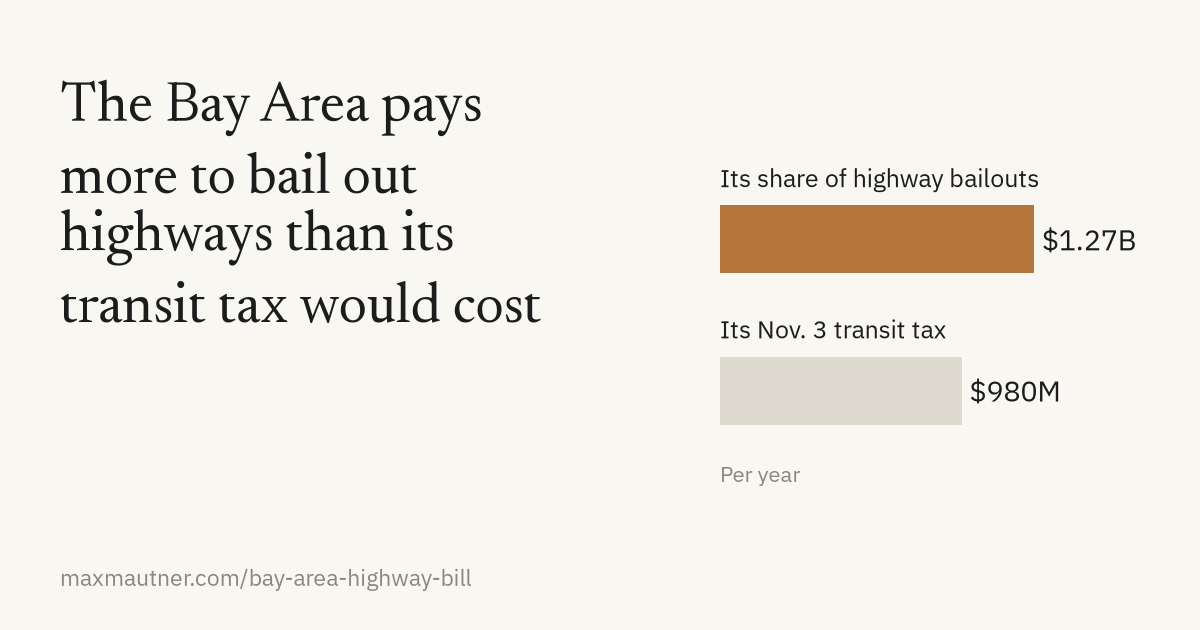
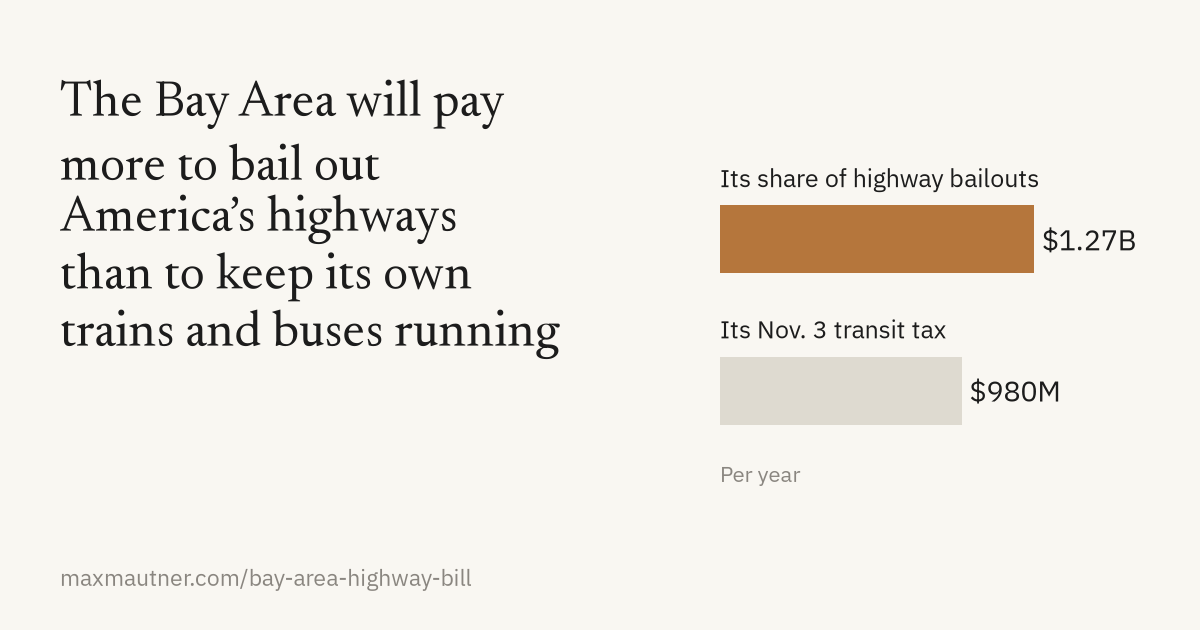
bay-area-highway-bill: og-image headline matches post

Changed region(s): [[0.0308, 0.1206, 0.4625, 0.573]]

diff --git a/2026-10-24-bay-area-highway-bill/charts/charts.py b/2026-10-24-bay-area-highway-bill/charts/charts.py
@@ -111,8 +111,8 @@ def og_image(name):
     lo = get("Bay Area share of projected highway-account gap, avg FY2028-36, low")
     tax = get("Transit sales tax on the Nov 3 ballot, per year")
     fig = plt.figure(figsize=(8, 4.2), dpi=DPI, facecolor=BG)
-    fig.text(0.05, 0.88, "The Bay Area pays\nmore to bail out\nhighways than its\ntransit tax would cost",
-             fontproperties=font("serif", 27), color=INK, va="top", linespacing=1.15)
+    fig.text(0.05, 0.88, "The Bay Area will pay\nmore to bail out\nAmerica\u2019s highways\nthan to keep its own\ntrains and buses running",
+             fontproperties=font("serif", 24), color=INK, va="top", linespacing=1.15)
     fig.text(0.05, 0.06, WATERMARK, fontsize=11, color=GREY, va="bottom")
     ax = fig.add_axes([0.6, 0.2, 0.36, 0.6]); bare(ax)
     for y, lab, v, txt, col in ((1, "Its share of highway bailouts", lo, f"${lo:.2f}B", COPPER),
